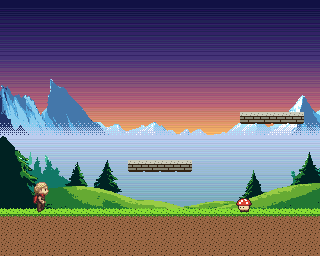
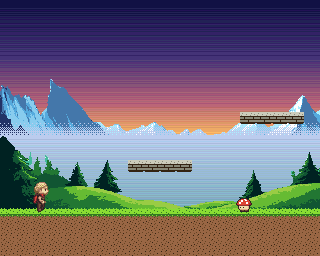
sidescroller: quieter music, pit darkness starts at the dirt
- sound.toml [music.NAME] volume (ptplayer master volume, music only);
  the theme plays at 44/64, effects keep their own volume
- Hills band back to 80 rows (BANDS_END 216): the pit opening shows the
  hills down to the ground's top face, and its dark inside starts at line
  216, where the dirt begins
- Test colours for the requantised hills; goldens re-recorded

diff --git a/harness/agk/sound.py b/harness/agk/sound.py
@@ -26,6 +26,8 @@ A project's sound lives in sound/:
 
         [music.theme]
         source = "theme.mml"      # MML text, see below
+        volume = 48               # optional: music volume 0-64 (default 64);
+                                  # sound effects keep their own volume
 
   Noise: `freq` is how often the noise changes value (Hz): ~8000 hiss,
   ~2000 crunch, ~500 rumble.
@@ -903,7 +905,13 @@ def build(project_dir, out_dir=None, previews=True):
         except SoundError as e:
             raise SoundError(f"{src}: {e}")
         _write_if_changed(os.path.join(out_dir, f"{name}.mod"), mod)
-        music.append({"name": name, "mod": mod, "info": info})
+        vol = int(spec.get("volume", 64))
+        if not 0 <= vol <= 64:
+            raise SoundError(f"music.{name}: volume is 0-64")
+        for k in spec:
+            if k not in ("source", "volume"):
+                raise SoundError(f"music.{name}: unknown key '{k}' (use source, volume)")
+        music.append({"name": name, "mod": mod, "info": info, "volume": vol})
     if previews:
         for s in sfx:
             pcm = resample(sfx_to_float(s["data"]), SFX_RATE, PREVIEW_RATE)
@@ -963,14 +971,14 @@ def _write_c(sfx, music, chans, out_dir):
               f"static const UBYTE s_pMod{_c_name(m['name'])}Samples[{len(mod) - head_len}] __attribute__((aligned(2))) = {{",
               _bytes_c(mod[head_len:]), "};"]
     mnames = ", ".join(f'"AGK music {m["name"]}\\n"' for m in music) or '""'
-    c += ["", "static const struct { const UBYTE *pMod; ULONG ulHeadBytes; const UBYTE *pSamples; ULONG ulSampleBytes; } s_pMusicDefs[] = {"]
+    c += ["", "static const struct { const UBYTE *pMod; ULONG ulHeadBytes; const UBYTE *pSamples; ULONG ulSampleBytes; UBYTE ubVolume; } s_pMusicDefs[] = {"]
     for m in music:
         npat = max(m["mod"][952:1080]) + 1
         head_len = 1084 + npat * 1024
         n = _c_name(m["name"])
-        c.append(f"\t{{s_pMod{n}, {head_len}, s_pMod{n}Samples, {len(m['mod']) - head_len}}},")
+        c.append(f"\t{{s_pMod{n}, {head_len}, s_pMod{n}Samples, {len(m['mod']) - head_len}, {m['volume']}}},")
     if not music:
-        c.append("\t{0, 0, 0, 0},")
+        c.append("\t{0, 0, 0, 0, 0},")
     c += ["};", f"static const char *const s_pMusicNames[] = {{{mnames}}};", "",
           f"static tPtplayerSfx s_pSfx[{max(1, len(sfx))}];",
           f"static tPtplayerMod s_pMods[{max(1, len(music))}];",
@@ -1018,6 +1026,7 @@ def _write_c(sfx, music, chans, out_dir):
           "void soundMusicStart(UBYTE ubSong) {",
           "\tif(ubSong >= SOUND_MUSIC_COUNT) return;",
           "\tptplayerLoadMod(&s_pMods[ubSong], 0, 0);",
+          "\tptplayerSetMasterVolume(s_pMusicDefs[ubSong].ubVolume); // music only, not effects",
           "\tptplayerConfigureSongRepeat(1, 0);",
           "\tptplayerEnableMusic(1);",
           "\tagkPrint(s_pMusicNames[ubSong]);",

diff --git a/examples/sidescroller/src/logic.h b/examples/sidescroller/src/logic.h
@@ -55,10 +55,10 @@
 #define MOUNTAINS_H 56   // art cropped to the peaks (agk art-clean --crop 6:62)
 #define GAP_Y (MOUNTAINS_Y + MOUNTAINS_H)     // 135: one line of blank PF2 to reload the palette
 #define HILLS_Y (GAP_Y + 1)                   // 136
-#define HILLS_H 73
-#define BANDS_END (HILLS_Y + HILLS_H)          // 209: below this PF2 is blank
-// (the ground's grass blades on line 208 still have hills behind them; from
-// line 209 on, what shows through the level is the inside of a pit)
+#define HILLS_H 80
+#define BANDS_END (HILLS_Y + HILLS_H)          // 216: below this PF2 is blank
+// (the ground's top face, lines 208-215, still has hills behind it; from
+// line 216, where the dirt starts, a pit shows its dark inside)
 #define MOUNTAINS_SHIFT 2   // camera / 4
 #define HILLS_SHIFT 1       // camera / 2
 
@@ -67,9 +67,9 @@
 #define SKY_BANDS (HILLS_Y / SKY_STEP)         // 136
 // Behind the hills: mist (starts at the colour the mountains fade into), one colour every HAZE_STEP lines
 #define HAZE_STEP 1
-#define HAZE_BANDS ((BANDS_END - HILLS_Y) / HAZE_STEP)  // 73
+#define HAZE_BANDS ((BANDS_END - HILLS_Y) / HAZE_STEP)  // 80
 // Inside the pits (COLOR00 below the bands): dark earth fading to black
-#define PIT_BANDS (SCREEN_H - BANDS_END)       // 47
+#define PIT_BANDS (SCREEN_H - BANDS_END)       // 40
 #define PIT_RAMP_LINES 8                        // lines per step of the pit's colour ramp
 
 typedef struct {

diff --git a/harness/tests/test_sound.py b/harness/tests/test_sound.py
@@ -124,6 +124,8 @@ class BuildTests(unittest.TestCase):
             c = f.read()
         self.assertIn('"AGK sfx jump\\n"', c)
         self.assertIn("ptplayerSetMusicChannelMask(0x7)", c)     # default: effects on channel 3
+        self.assertIn("ptplayerSetMasterVolume(s_pMusicDefs[ubSong].ubVolume)", c)
+        self.assertIn(", 64}", c)                                 # music volume default 64
         for f in ("theme.mod", "preview/jump.wav", "preview/jump.png", "preview/theme.png"):
             self.assertTrue(os.path.exists(os.path.join(out, f)), f)
         self.assertGreater(res["chip_bytes"], 0)
